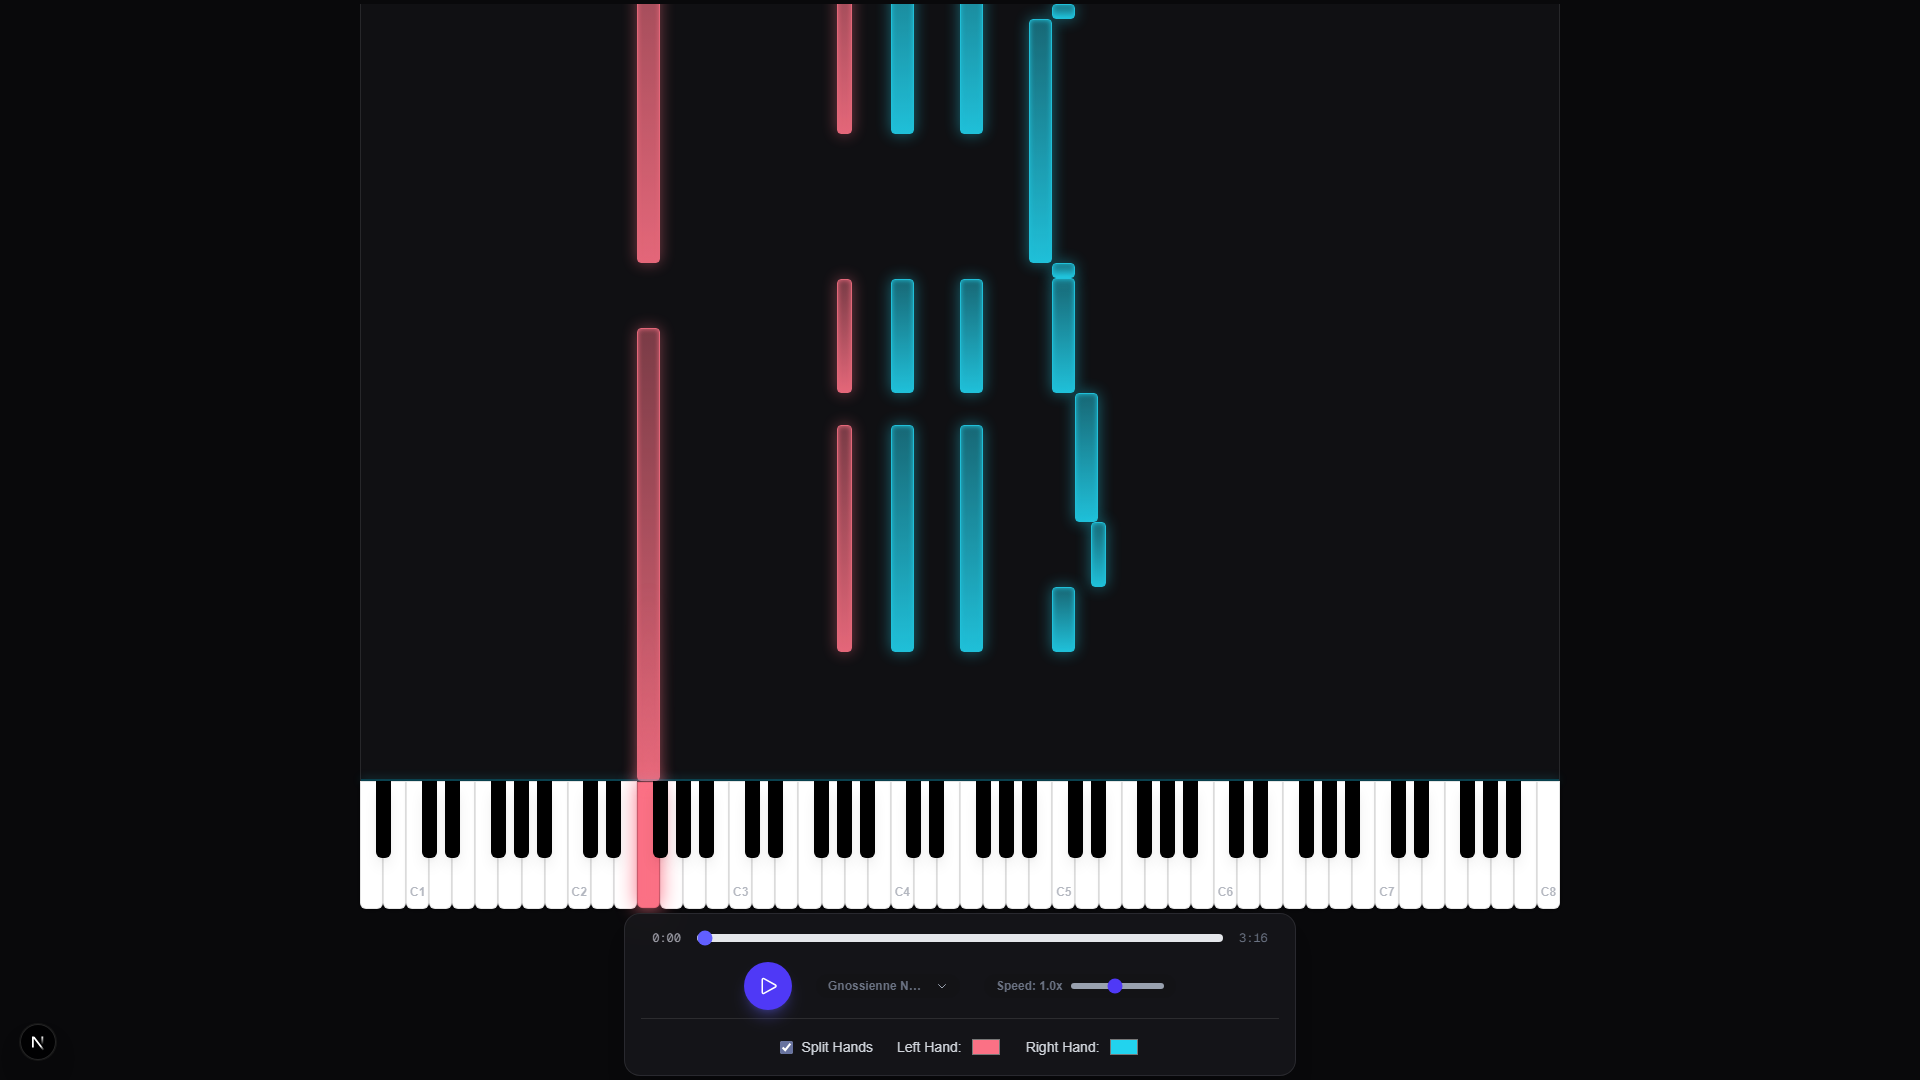
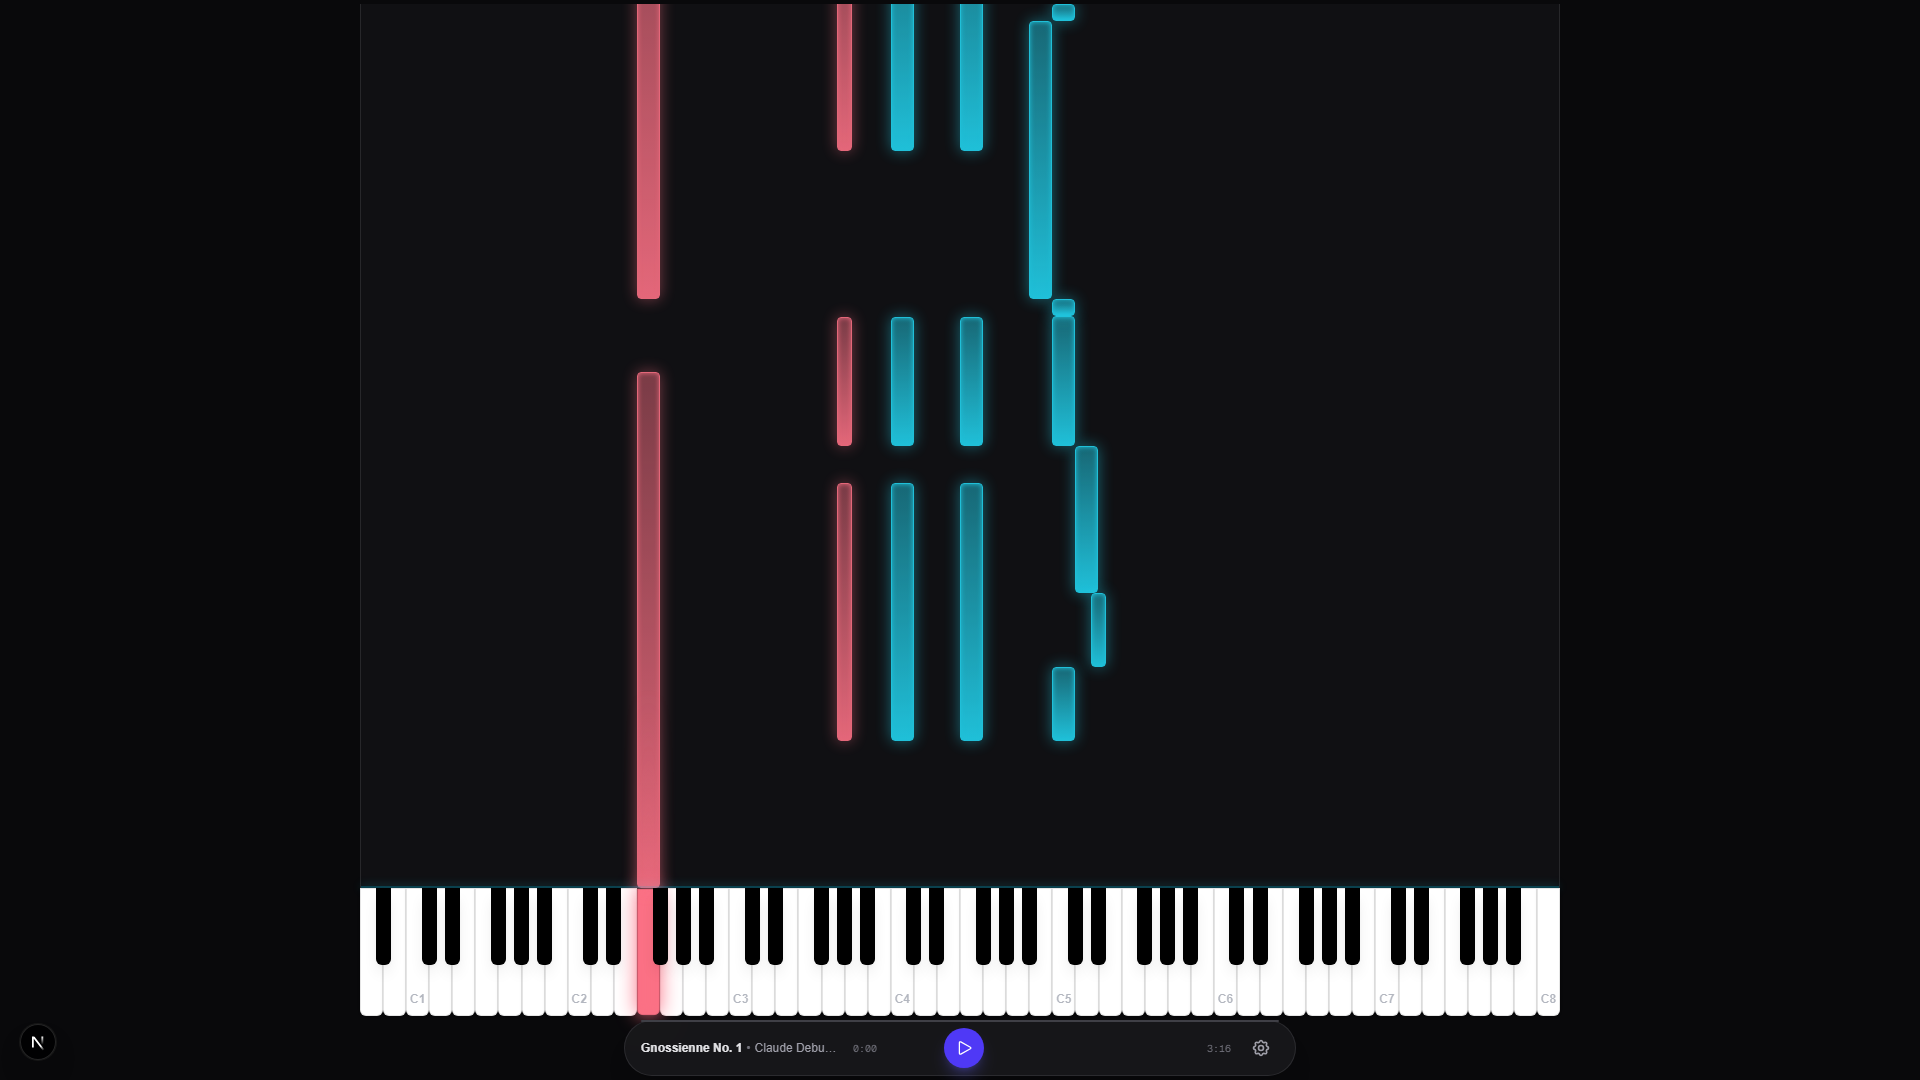
feat: optimize mobile controls UI with settings popover (Issue #5)

Changed region(s): [[0.1875, 0.2444, 0.8125, 1.0], [0.3125, 0.2444, 0.3438, 0.3667], [0.4375, 0.1222, 0.5312, 0.1528]]

diff --git a/src/components/piano/Controls.tsx b/src/components/piano/Controls.tsx
@@ -55,6 +55,7 @@ export function Controls({
     songSettings,
 }: ControlsProps) {
 
+    const [isSettingsOpen, setIsSettingsOpen] = useState(false);
     const [isSongMenuOpen, setIsSongMenuOpen] = useState(false);
 
     // Load persisted songs on mount
@@ -82,154 +83,180 @@ export function Controls({
         }
     }, [songSettings]); // Load when settings are available
 
-    // formatTime removed, using utility
-
     return (
-        <div className="relative w-full bg-zinc-900/80 backdrop-blur-md rounded-2xl border border-zinc-700/50 p-3 md:p-4 shadow-xl">
+        <div className="relative w-full">
 
-            {/* Progress Bar - Compact */}
-            <div className="flex items-center gap-2 md:gap-4 mb-2 md:mb-4">
-                <span className="text-xs font-mono text-zinc-400 w-10 text-right" data-testid="current-time">
-                    {formatTime(currentTime)}
-                </span>
-                <input
-                    type="range"
-                    min={0}
-                    max={duration || 100}
-                    step={0.1}
-                    value={currentTime}
-                    onChange={(e) => onSeek(parseFloat(e.target.value))}
-                    className="flex-1 cursor-pointer accent-indigo-500 h-2 bg-gray-200 rounded-lg appearance-none dark:bg-gray-700"
-                />
-                <span className="text-xs font-mono text-gray-500 dark:text-gray-400 w-10" data-testid="duration">
-                    {formatTime(duration)}
-                </span>
-            </div>
-            {/* Controls Row */}
-            <div className="flex flex-wrap items-center justify-center gap-2 md:gap-6">
+            {/* Minimalist Control Bar */}
+            <div className="relative w-full bg-zinc-900/90 backdrop-blur-md rounded-full border border-zinc-700/50 px-4 py-2 shadow-xl flex items-center justify-between gap-4 h-[48px] md:h-[56px]">
 
-                {/* Play/Pause Button */}
+                {/* Progress Bar (Integrated at top) */}
+                <div className="absolute top-0 left-4 right-4 h-[2px] -mt-[1px]">
+                    <div className="relative w-full h-full">
+                        <div className="absolute inset-0 bg-zinc-700 rounded-full"></div>
+                        <div
+                            className="absolute inset-y-0 left-0 bg-indigo-500 rounded-full"
+                            style={{ width: `${(currentTime / (duration || 1)) * 100}%` }}
+                        />
+                        <input
+                            type="range"
+                            min={0}
+                            max={duration || 100}
+                            step={0.1}
+                            value={currentTime}
+                            onChange={(e) => onSeek(parseFloat(e.target.value))}
+                            className="absolute inset-0 w-full h-full opacity-0 cursor-pointer"
+                        />
+                    </div>
+                </div>
+
+                {/* Left: Song Info (Compact) */}
+                <div className="flex-1 min-w-0 pr-2 flex items-center gap-3">
+                    {songSettings && (
+                        <div className="text-xs text-zinc-400 truncate max-w-[150px] md:max-w-[200px]">
+                            <span className="font-semibold text-zinc-200">{songSettings.currentSong.title}</span>
+                            <span className="hidden md:inline text-zinc-500 mx-1">•</span>
+                            <span className="hidden md:inline">{songSettings.currentSong.artist}</span>
+                        </div>
+                    )}
+                    <span className="text-[10px] font-mono text-zinc-500 w-8" data-testid="current-time">
+                        {formatTime(currentTime)}
+                    </span>
+                </div>
+
+                {/* Center: Play/Pause */}
                 <button
                     onClick={onTogglePlay}
                     data-testid="play-button"
-                    className="flex items-center justify-center w-10 h-10 md:w-12 md:h-12 rounded-full bg-indigo-600 hover:bg-indigo-500 text-white shadow-lg shadow-indigo-500/30 transition-all hover:scale-105 active:scale-95"
+                    className="flex-shrink-0 flex items-center justify-center w-8 h-8 md:w-10 md:h-10 rounded-full bg-indigo-600 hover:bg-indigo-500 text-white shadow-lg shadow-indigo-500/30 transition-all hover:scale-105 active:scale-95"
                 >
                     {isPlaying ? (
-                        <svg xmlns="http://www.w3.org/2000/svg" fill="none" viewBox="0 0 24 24" strokeWidth={1.5} stroke="currentColor" className="w-6 h-6">
+                        <svg xmlns="http://www.w3.org/2000/svg" fill="none" viewBox="0 0 24 24" strokeWidth={1.5} stroke="currentColor" className="w-5 h-5">
                             <path strokeLinecap="round" strokeLinejoin="round" d="M15.75 5.25v13.5m-7.5-13.5v13.5" />
                         </svg>
                     ) : (
-                        <svg xmlns="http://www.w3.org/2000/svg" fill="none" viewBox="0 0 24 24" strokeWidth={1.5} stroke="currentColor" className="w-6 h-6 ml-0.5">
+                        <svg xmlns="http://www.w3.org/2000/svg" fill="none" viewBox="0 0 24 24" strokeWidth={1.5} stroke="currentColor" className="w-5 h-5 ml-0.5">
                             <path strokeLinecap="round" strokeLinejoin="round" d="M5.25 5.653c0-.856.917-1.398 1.667-.986l11.54 6.347a1.125 1.125 0 0 1 0 1.972l-11.54 6.347a1.125 1.125 0 0 1-1.667-.986V5.653Z" />
                         </svg>
                     )}
                 </button>
 
-                {/* Song Selector */}
-                {songSettings && (
-                    <div className="relative">
-                        <button
-                            onClick={() => setIsSongMenuOpen(!isSongMenuOpen)}
-                            className="flex items-center gap-2 bg-black/5 dark:bg-white/5 py-1 px-3 rounded-full hover:bg-black/10 dark:hover:bg-white/10 transition-colors"
-                        >
-                            <span className="text-xs font-semibold text-gray-500 whitespace-nowrap max-w-[100px] truncate">
-                                {songSettings.currentSong.title}
-                            </span>
-                            <svg className={`w-3 h-3 text-gray-400 transition-transform ${isSongMenuOpen ? 'rotate-180' : ''}`} fill="none" stroke="currentColor" viewBox="0 0 24 24"><path strokeLinecap="round" strokeLinejoin="round" strokeWidth={2} d="M19 9l-7 7-7-7" /></svg>
-                        </button>
-
-                        {/* Dropdown Menu */}
-                        {isSongMenuOpen && (
-                            <>
-                                {/* Backdrop to close on click outside */}
-                                <div className="fixed inset-0 z-40" onClick={() => setIsSongMenuOpen(false)} />
-
-                                <div className="absolute bottom-full left-0 mb-2 w-48 bg-zinc-900 border border-zinc-700 rounded-xl shadow-xl overflow-hidden transition-all z-50">
-                                    {songSettings.songs.map(song => (
-                                        <button
-                                            key={song.id}
-                                            onClick={() => {
-                                                songSettings.onSelectSong(song);
-                                                setIsSongMenuOpen(false);
-                                            }}
-                                            className={`w-full text-left px-4 py-2 text-xs transition-colors ${song.id === songSettings.currentSong.id
-                                                ? "bg-indigo-600/20 text-indigo-400"
-                                                : "text-zinc-400 hover:bg-zinc-800 hover:text-white"
-                                                }`}
-                                        >
-                                            <div className="font-bold">{song.title}</div>
-                                            <div className="opacity-70 text-[10px]">{song.artist}</div>
-                                        </button>
-                                    ))}
-                                </div>
-                            </>
-                        )}
-                    </div>
-                )}
-
-                {/* Speed Control Slider */}
-                <div className="flex items-center gap-2 bg-black/5 dark:bg-white/5 py-1 px-3 rounded-full w-48">
-                    <span className="text-xs font-semibold text-gray-500 whitespace-nowrap">Speed: {playbackRate.toFixed(1)}x</span>
-                    <input
-                        type="range"
-                        min={0.1}
-                        max={2.0}
-                        step={0.1}
-                        value={playbackRate}
-                        onChange={(e) => onSetPlaybackRate(parseFloat(e.target.value))}
-                        className="w-full cursor-pointer h-1.5 bg-gray-400 rounded-lg appearance-none accent-indigo-600"
-                    />
+                {/* Right: Settings Toggle */}
+                <div className="flex-1 flex justify-end items-center gap-3 min-w-0">
+                    <span className="text-[10px] font-mono text-zinc-500 w-8 text-right" data-testid="duration">
+                        {formatTime(duration)}
+                    </span>
+                    <button
+                        onClick={() => setIsSettingsOpen(!isSettingsOpen)}
+                        className={`p-2 rounded-full transition-colors ${isSettingsOpen ? 'bg-zinc-800 text-indigo-400' : 'text-zinc-400 hover:text-white hover:bg-zinc-800'}`}
+                    >
+                        <svg className="w-5 h-5" fill="none" stroke="currentColor" viewBox="0 0 24 24"><path strokeLinecap="round" strokeLinejoin="round" strokeWidth={2} d="M10.325 4.317c.426-1.756 2.924-1.756 3.35 0a1.724 1.724 0 002.573 1.066c1.543-.94 3.31.826 2.37 2.37a1.724 1.724 0 001.065 2.572c1.756.426 1.756 2.924 0 3.35a1.724 1.724 0 00-1.066 2.573c.94 1.543-.826 3.31-2.37 2.37a1.724 1.724 0 00-2.572 1.065c-.426 1.756-2.924 1.756-3.35 0a1.724 1.724 0 00-2.573-1.066c-1.543.94-3.31-.826-2.37-2.37a1.724 1.724 0 00-1.065-2.572c-1.756-.426-1.756-2.924 0-3.35a1.724 1.724 0 001.066-2.573c-.94-1.543.826-3.31 2.37-2.37.996.608 2.296.07 2.572-1.065z" /><path strokeLinecap="round" strokeLinejoin="round" strokeWidth={2} d="M15 12a3 3 0 11-6 0 3 3 0 016 0z" /></svg>
+                    </button>
                 </div>
-
-                {/* Visual Settings Toggle */}
-                {/* We can add a simple Color Picker UI here */}
             </div>
 
-            {/* Visual Customization Panel */}
-            <div className="mt-2 border-t border-white/10 pt-4 flex flex-wrap gap-6 justify-center text-sm text-gray-300">
-                <label className="flex items-center gap-2 cursor-pointer">
-                    <input
-                        type="checkbox"
-                        checked={visualSettings.splitHands}
-                        onChange={(e) => visualSettings.setSplitHands(e.target.checked)}
-                        className="rounded border-gray-600 bg-gray-700 text-indigo-600 focus:ring-indigo-500"
-                    />
-                    <span>Split Hands</span>
-                </label>
+            {/* Settings Popover */}
+            {isSettingsOpen && (
+                <>
+                    <div className="fixed inset-0 z-40 bg-black/20" onClick={() => setIsSettingsOpen(false)} />
+                    <div className="absolute bottom-full right-0 mb-4 w-[280px] bg-zinc-900/95 backdrop-blur-xl border border-zinc-700/50 rounded-2xl shadow-2xl p-4 z-50 flex flex-col gap-4">
 
-                {visualSettings.splitHands ? (
-                    <>
-                        <div className="flex items-center gap-2">
-                            <span>Left Hand:</span>
+                        {/* Song Selection */}
+                        {songSettings && (
+                            <div className="space-y-2">
+                                <label className="text-xs font-bold text-zinc-500 uppercase tracking-wider">Song</label>
+                                <div className="relative">
+                                    <button
+                                        onClick={() => setIsSongMenuOpen(!isSongMenuOpen)}
+                                        className="w-full flex items-center justify-between bg-black/20 p-2 rounded-lg text-sm text-zinc-200 hover:bg-black/40 transition-colors"
+                                    >
+                                        <span className="truncate">{songSettings.currentSong.title}</span>
+                                        <svg className={`w-4 h-4 text-zinc-400 transition-transform ${isSongMenuOpen ? 'rotate-180' : ''}`} fill="none" viewBox="0 0 24 24" stroke="currentColor"><path strokeLinecap="round" strokeLinejoin="round" strokeWidth={2} d="M19 9l-7 7-7-7" /></svg>
+                                    </button>
+                                    {isSongMenuOpen && (
+                                        <div className="absolute bottom-full left-0 mb-2 w-full bg-zinc-800 border border-zinc-700 rounded-xl shadow-xl overflow-hidden max-h-[200px] overflow-y-auto">
+                                            {songSettings.songs.map(song => (
+                                                <button
+                                                    key={song.id}
+                                                    onClick={() => {
+                                                        songSettings.onSelectSong(song);
+                                                        setIsSongMenuOpen(false);
+                                                    }}
+                                                    className={`w-full text-left px-3 py-2 text-xs transition-colors ${song.id === songSettings.currentSong.id ? "bg-indigo-600/20 text-indigo-400" : "text-zinc-400 hover:bg-zinc-700 hover:text-white"}`}
+                                                >
+                                                    <div className="font-bold">{song.title}</div>
+                                                    <div className="opacity-70 text-[10px]">{song.artist}</div>
+                                                </button>
+                                            ))}
+                                        </div>
+                                    )}
+                                </div>
+                            </div>
+                        )}
+
+                        <div className="h-[1px] bg-white/5 w-full" />
+
+                        {/* Speed Control */}
+                        <div className="space-y-2">
+                            <div className="flex justify-between items-center text-xs font-bold text-zinc-500 uppercase tracking-wider">
+                                <span>Speed</span>
+                                <span className="text-indigo-400">{playbackRate.toFixed(1)}x</span>
+                            </div>
                             <input
-                                type="color"
-                                value={visualSettings.leftColor}
-                                onChange={(e) => visualSettings.setLeftColor(e.target.value)}
-                                className="h-6 w-8 cursor-pointer rounded bg-transparent p-0 border-none"
+                                type="range"
+                                min={0.1}
+                                max={2.0}
+                                step={0.1}
+                                value={playbackRate}
+                                onChange={(e) => onSetPlaybackRate(parseFloat(e.target.value))}
+                                className="w-full cursor-pointer h-1.5 bg-zinc-700 rounded-lg appearance-none accent-indigo-600"
                             />
                         </div>
-                        <div className="flex items-center gap-2">
-                            <span>Right Hand:</span>
-                            <input
-                                type="color"
-                                value={visualSettings.rightColor}
-                                onChange={(e) => visualSettings.setRightColor(e.target.value)}
-                                className="h-6 w-8 cursor-pointer rounded bg-transparent p-0 border-none"
-                            />
+
+                        <div className="h-[1px] bg-white/5 w-full" />
+
+                        {/* Visual Settings */}
+                        <div className="space-y-3">
+                            <label className="text-xs font-bold text-zinc-500 uppercase tracking-wider">Appearance</label>
+
+                            <label className="flex items-center justify-between cursor-pointer group">
+                                <span className="text-sm text-zinc-300 group-hover:text-white transition-colors">Split Hands</span>
+                                <input
+                                    type="checkbox"
+                                    checked={visualSettings.splitHands}
+                                    onChange={(e) => visualSettings.setSplitHands(e.target.checked)}
+                                    className="rounded border-zinc-600 bg-zinc-800 text-indigo-600 focus:ring-indigo-500"
+                                />
+                            </label>
+
+                            {visualSettings.splitHands ? (
+                                <div className="grid grid-cols-2 gap-2">
+                                    <div className="flex items-center gap-2 bg-black/20 p-2 rounded-lg">
+                                        <div className="w-4 h-4 rounded-full border border-zinc-600 shadow-sm overflow-hidden flex-shrink-0">
+                                            <input type="color" value={visualSettings.leftColor} onChange={(e) => visualSettings.setLeftColor(e.target.value)} className="w-[150%] h-[150%] -m-[25%] p-0 cursor-pointer border-none" />
+                                        </div>
+                                        <span className="text-xs text-zinc-400">Left</span>
+                                    </div>
+                                    <div className="flex items-center gap-2 bg-black/20 p-2 rounded-lg">
+                                        <div className="w-4 h-4 rounded-full border border-zinc-600 shadow-sm overflow-hidden flex-shrink-0">
+                                            <input type="color" value={visualSettings.rightColor} onChange={(e) => visualSettings.setRightColor(e.target.value)} className="w-[150%] h-[150%] -m-[25%] p-0 cursor-pointer border-none" />
+                                        </div>
+                                        <span className="text-xs text-zinc-400">Right</span>
+                                    </div>
+                                </div>
+                            ) : (
+                                <div className="flex items-center gap-2 bg-black/20 p-2 rounded-lg">
+                                    <div className="w-4 h-4 rounded-full border border-zinc-600 shadow-sm overflow-hidden flex-shrink-0">
+                                        <input type="color" value={visualSettings.unifiedColor} onChange={(e) => visualSettings.setUnifiedColor(e.target.value)} className="w-[150%] h-[150%] -m-[25%] p-0 cursor-pointer border-none" />
+                                    </div>
+                                    <span className="text-xs text-zinc-400">Unified Color</span>
+                                </div>
+                            )}
                         </div>
-                    </>
-                ) : (
-                    <div className="flex items-center gap-2">
-                        <span>Theme Color:</span>
-                        <input
-                            type="color"
-                            value={visualSettings.unifiedColor}
-                            onChange={(e) => visualSettings.setUnifiedColor(e.target.value)}
-                            className="h-6 w-8 cursor-pointer rounded bg-transparent p-0 border-none"
-                        />
+
                     </div>
-                )}
-            </div>
+                </>
+            )}
+
         </div>
     );
 }
